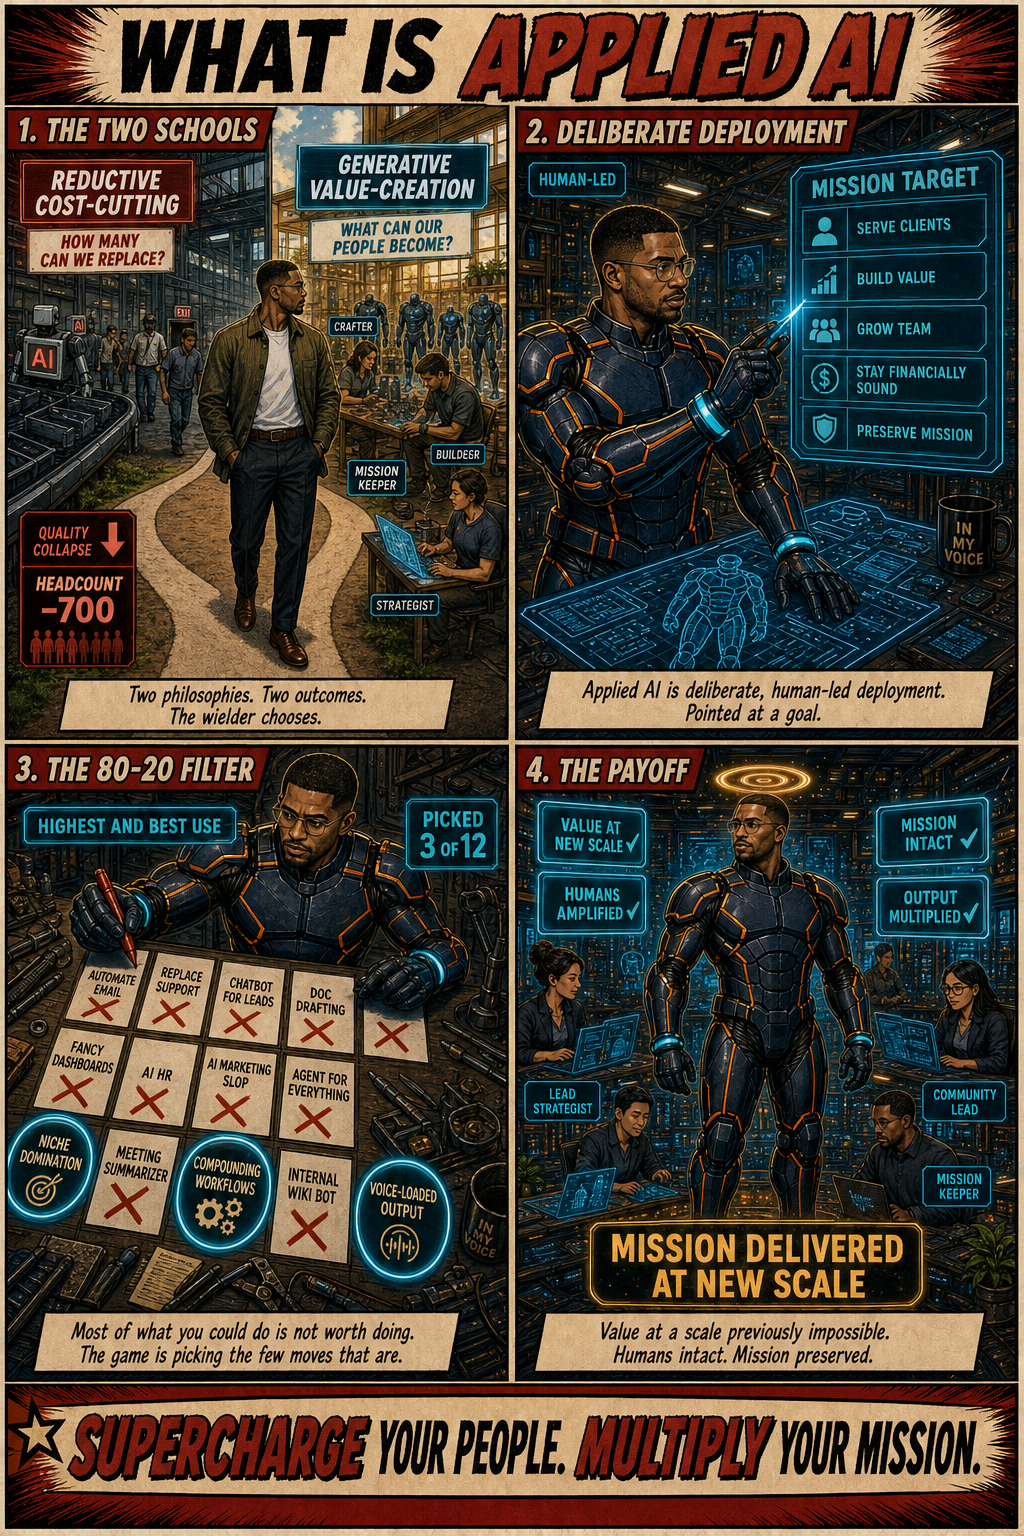
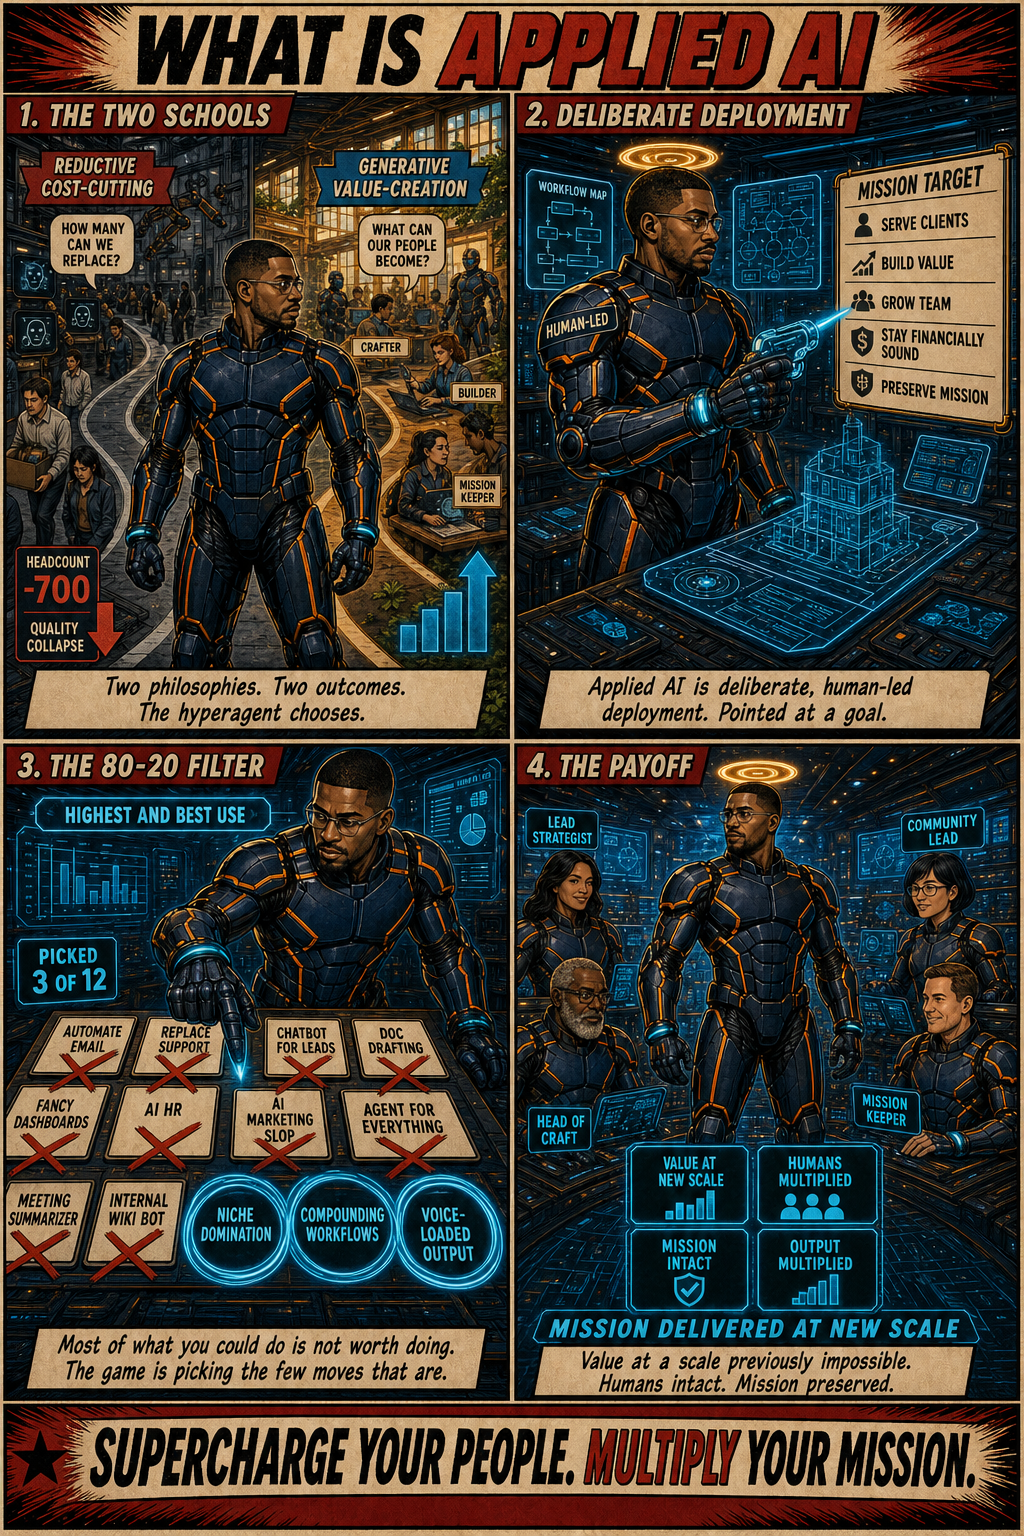
comic: what-is-applied-ai regen (clean chest, multiplied not amplified, hyperagent not wielder)

diff --git a/docs/start-here/what-is-applied-ai.md b/docs/start-here/what-is-applied-ai.md
@@ -9,7 +9,7 @@ description: "The working definition. Putting AI to its highest and best use: ru
 
 *Putting AI to its highest and best use: running an organization as autonomously as possible so it can deliver value for humanity while maximizing the scale of the value.*
 
-![Four-panel comic. THE TWO SCHOOLS: the wielder figure (armored chest plate, dim cyan core, no halo) stands prominently in the foreground center at a fork in the road, body angled toward the right path. LEFT banner reads REDUCTIVE COST-CUTTING — the path winds into a dim mechanized factory floor where humans are being escorted out by AI boxes sitting in their chairs, conveyor belt of empty workstations, banner 'HOW MANY CAN WE REPLACE?', quality-collapse arrow ↓, floor tally reads HEADCOUNT -700, QUALITY COLLAPSE. RIGHT banner reads GENERATIVE VALUE-CREATION — the path opens into a warm sunlit innovator's workshop where named humans labeled CRAFTER, BUILDER, MISSION KEEPER, STRATEGIST work in flow with cyan-glow Supersuits at their backs, banner 'WHAT CAN OUR PEOPLE BECOME?', value-creation arrow ↑. Caption: 'Two philosophies. Two outcomes. The wielder chooses.' DELIBERATE DEPLOYMENT: the same wielder now suited up more visibly (stronger cyan core, gauntlets) in a high-tech innovator's workshop. AI rendered as a glowing instrument held in his gauntleted hand and aimed deliberately at a labeled MISSION TARGET board on the wall (target sub-items visible: SERVE CLIENTS, BUILD VALUE, GROW TEAM, STAY FINANCIALLY SOUND, PRESERVE MISSION); cyan holographic blueprints float around him; shoulder tag reads HUMAN-LED; ledger-panel on the left shows WORKFLOW MAP and DATA CONTEXT. Caption: 'Applied AI is deliberate, human-led deployment. Pointed at a goal.' THE 80-20 FILTER: workbench with ~10 cards spread across (AUTOMATE EMAIL, REPLACE SUPPORT, CHATBOT FOR LEADS, DOC DRAFTING, FANCY DASHBOARDS, AI HR, AI MARKETING SLOP, AGENT FOR EVERYTHING, MEETING SUMMARIZER, INTERNAL WIKI BOT); the wielder X's out 80% (large red X marks) and circles 3 (NICHE DOMINATION, COMPOUNDING WORKFLOWS, VOICE-LOADED OUTPUT) with glowing cyan rings; HUD banner above reads HIGHEST AND BEST USE; tally reads PICKED 3 OF 12. Caption: 'Most of what you could do is not worth doing. The game is picking the few moves that are.' THE PAYOFF: wide third-person establishing shot. Wielder fully armored (bright cyan core blazing, gauntlets, GOLD HALO and small agentic swirl glyph above his head) at the center of his thriving operation; named team behind him at workstations cyan-glow amplified (LEAD STRATEGIST, HEAD OF CRAFT, COMMUNITY LEAD, MISSION KEEPER); outcome cards floating (VALUE AT NEW SCALE ✓, HUMANS AMPLIFIED ✓, MISSION INTACT ✓, OUTPUT MULTIPLIED ✓); banner reads MISSION DELIVERED AT NEW SCALE. Caption: 'Value at a scale previously impossible. Humans intact. Mission preserved.' Title bar: WHAT IS APPLIED AI. Footer bar: SUPERCHARGE YOUR PEOPLE. MULTIPLY YOUR MISSION.](/img/comics/what-is-applied-ai.png)
+![Four-panel comic. The hyperagent across all four panels is the canonical Blasian man in a matte-navy Supersuit with vivid orange seam accents, clean chest (no glowing core), cyan glow at wrist cuffs, gold spiral halo only in the activated states. 1. THE TWO SCHOOLS: the hyperagent (helmet off, no halo yet) stands at a fork in the road. LEFT banner reads REDUCTIVE COST-CUTTING; the path winds into a dim mechanized factory floor where humans are escorted out by AI boxes sitting in their chairs, banner 'HOW MANY CAN WE REPLACE?', quality-collapse arrow, floor tally reads HEADCOUNT -700, QUALITY COLLAPSE. RIGHT banner reads GENERATIVE VALUE-CREATION; the path opens into a warm sunlit innovator's workshop where named humans (CRAFTER, BUILDER, MISSION KEEPER) work in flow with cyan-glow Supersuits, banner 'WHAT CAN OUR PEOPLE BECOME?', value-creation arrow up. Caption: 'Two philosophies. Two outcomes. The hyperagent chooses.' 2. DELIBERATE DEPLOYMENT: the same hyperagent in his Supersuit in a high-tech innovator's workshop, AI rendered as a glowing inked instrument held in his gauntleted hand and aimed deliberately at a labeled MISSION TARGET board (SERVE CLIENTS, BUILD VALUE, GROW TEAM, STAY FINANCIALLY SOUND, PRESERVE MISSION); cyan holographic blueprints float around him; shoulder tag reads HUMAN-LED. Caption: 'Applied AI is deliberate, human-led deployment. Pointed at a goal.' 3. THE 80-20 FILTER: workbench with ~10 cards spread across (AUTOMATE EMAIL, REPLACE SUPPORT, CHATBOT FOR LEADS, DOC DRAFTING, FANCY DASHBOARDS, AI HR, AI MARKETING SLOP, AGENT FOR EVERYTHING, MEETING SUMMARIZER, INTERNAL WIKI BOT); the hyperagent Xs out 80% (large red X marks) and circles 3 (NICHE DOMINATION, COMPOUNDING WORKFLOWS, VOICE-LOADED OUTPUT) with glowing cyan rings; HUD banner above reads HIGHEST AND BEST USE; tally reads PICKED 3 OF 12. Caption: 'Most of what you could do is not worth doing. The game is picking the few moves that are.' 4. THE PAYOFF: wide third-person establishing shot. The hyperagent with gold spiral halo above his head at the center of his thriving operation. Named team behind him at workstations, each in their own Supersuit and visibly distinct: LEAD STRATEGIST (Latina woman with long dark hair), HEAD OF CRAFT (older Black man with grey beard), COMMUNITY LEAD (young East Asian woman with short bob and glasses), MISSION KEEPER (white European man with neat short hair). Outcome cards floating: VALUE AT NEW SCALE, HUMANS MULTIPLIED, MISSION INTACT, OUTPUT MULTIPLIED. Banner reads MISSION DELIVERED AT NEW SCALE. Caption: 'Value at a scale previously impossible. Humans intact. Mission preserved.' Title bar: WHAT IS APPLIED AI. Footer bar: SUPERCHARGE YOUR PEOPLE. MULTIPLY YOUR MISSION.](/img/comics/what-is-applied-ai.png)
 
 ---
 